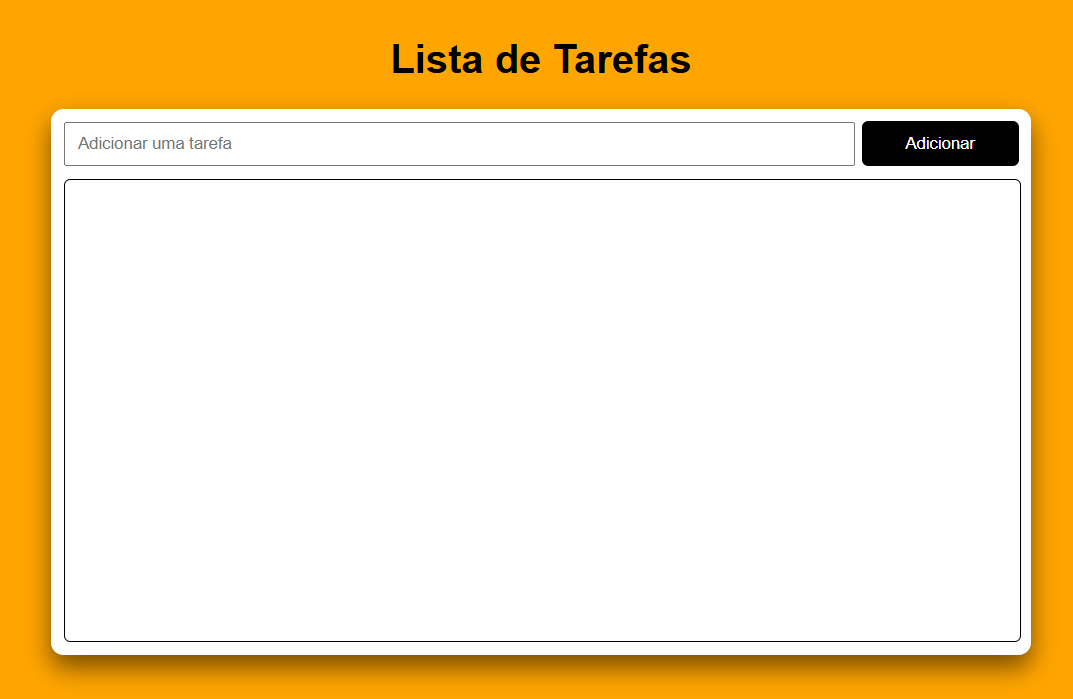
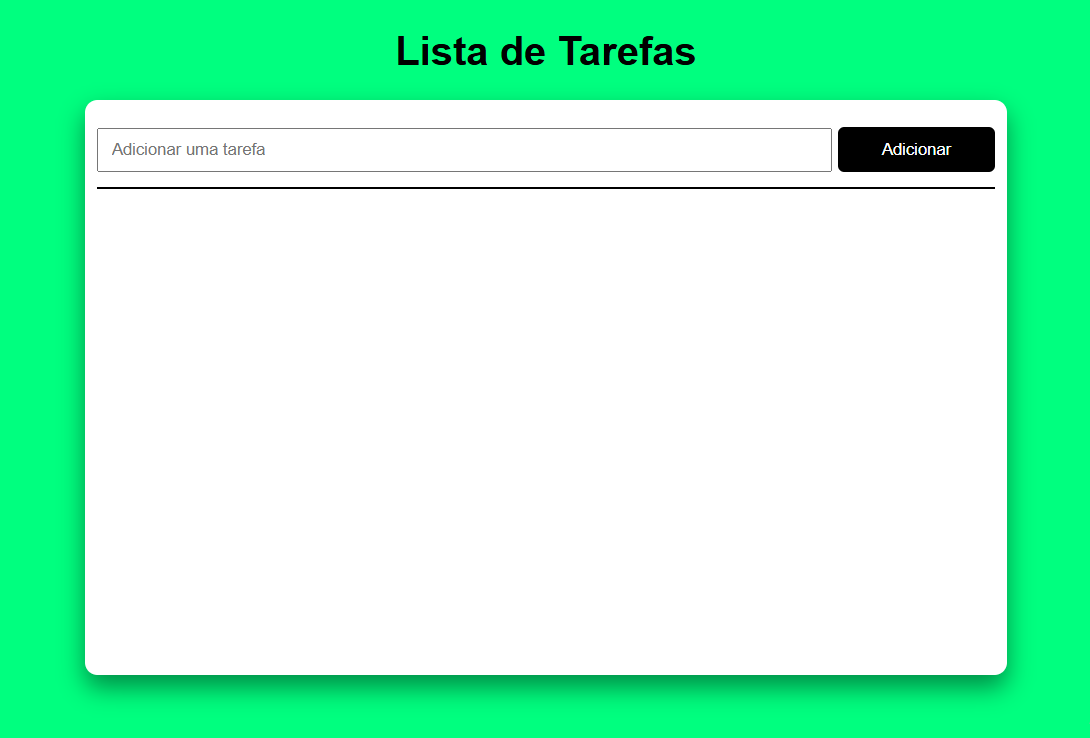
lista_atualizado

diff --git a/style.css b/style.css
@@ -5,7 +5,7 @@ body{
     padding: 0;
     box-sizing: border-box;
     font-family: Arial, Helvetica, sans-serif;
-    background-color: orange;
+    background-color: springgreen;
     display: flex;
     align-items: center;
     justify-content: center;
@@ -14,19 +14,21 @@ body{
 
 /*---------Card---------*/
 .card{
-    width: 50%;
-    padding: 10px 10px;
+    width: 47%;
+    padding: 10px;
     border-radius: 10px;
     background-color: white;
-    box-shadow: 0px 10px 20px 0px rgba(0, 0, 0, 0.534);
+    box-shadow: 0px 10px 20px 0px rgba(0, 0, 0, 0.447);
 }
 
 /*---------Adicionar---------*/
 .adicionar{
     width: 100%;
+    height: 8vh;
     display: flex;
     align-items: center;
     justify-content: center;
+    border-bottom: 2px solid black;
     gap: 5px;
 }
 
@@ -50,7 +52,6 @@ body{
     width: 100%;
     height: 50vh;
     border-radius: 5px;
-    border: 1px solid black;
     margin-top: 10px;
-    font-size: 20px;
+    font-size: 17px;
 }
